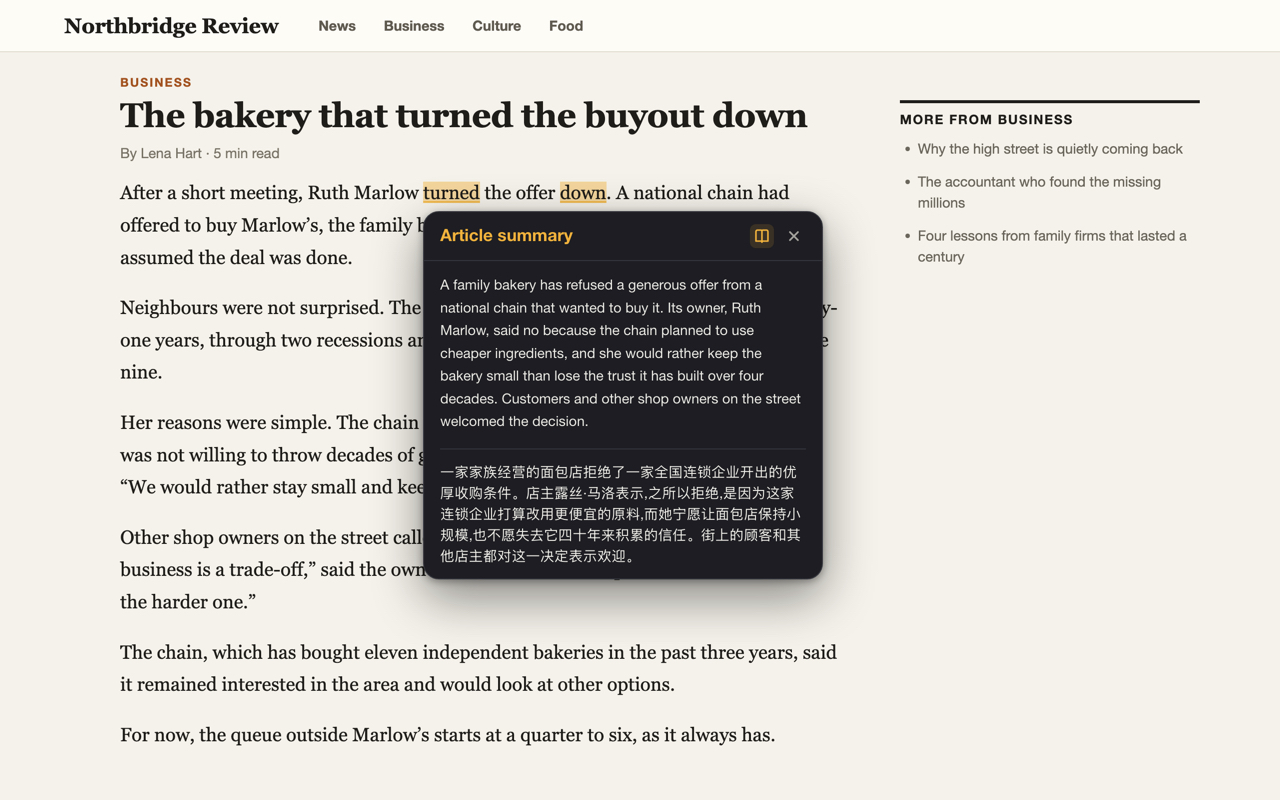
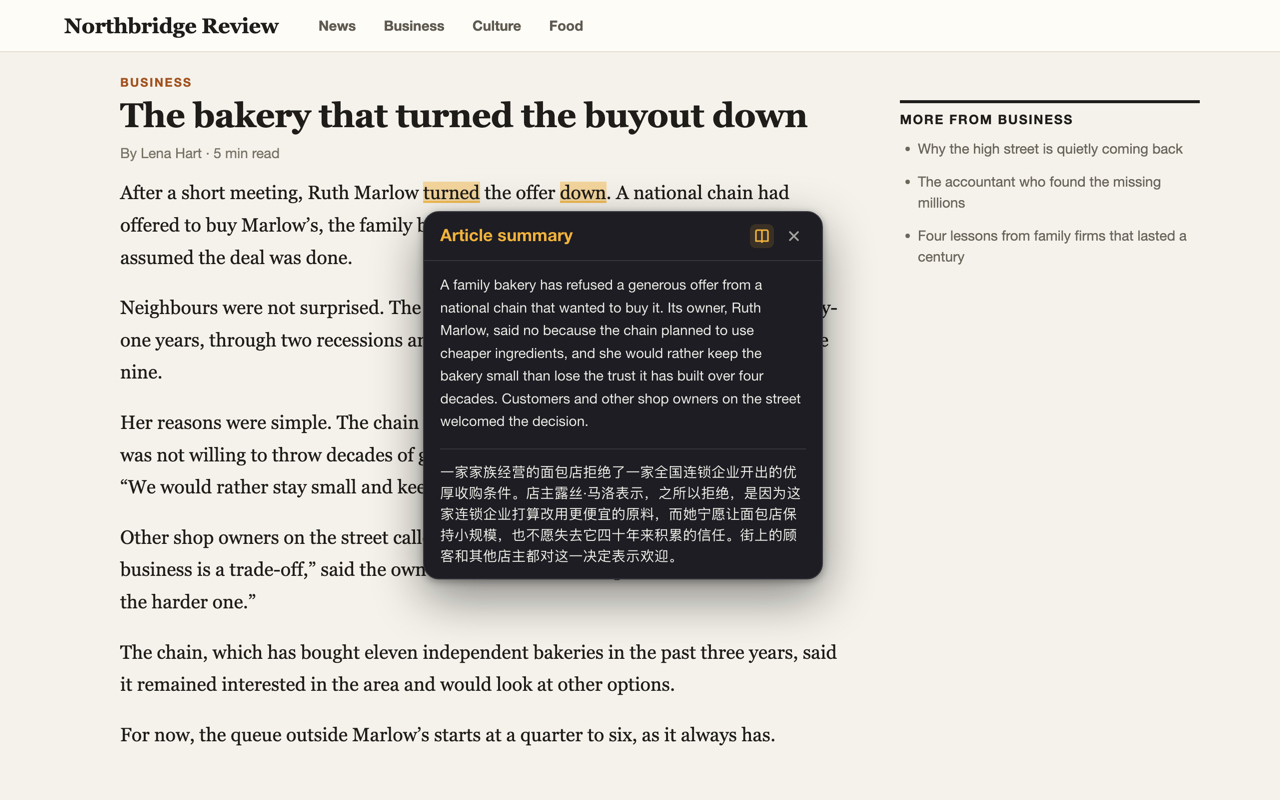
Apply the punctuation conversion to the saved Chinese answers, recapture the summary screenshot and record the fix

Changed region(s): [[0.3438, 0.5938, 0.625, 0.7188]]

diff --git a/playground/store/fixtures.ts b/playground/store/fixtures.ts
@@ -3,8 +3,8 @@
  * the pictures match what the extension would show there.
  *
  * The Spanish and Chinese text is not written by hand. It comes from the files in ./live, which hold
- * answers exactly as the model returned them at level B2. To refresh them, see store/README.md. The
- * Arabic text is written by hand.
+ * the model's answers at level B2 as the lookup code returns them, so the Chinese has full-width
+ * punctuation. To refresh them, see store/README.md. The Arabic text is written by hand.
  */
 import type { DictionaryCard, SavedItem, Segment, Summary, TranslationCard } from '@/lib/types';
 import esLive from './live/es-B2.json';

diff --git a/docs/PLAN.md b/docs/PLAN.md
@@ -41,6 +41,7 @@ src/lib/
   messaging.ts           typed protocol (@webext-core/messaging)
   text/tokens.ts         sentence/word segmentation, numbered passage, index checks
   text/words.ts          word counting, selection classification
+  text/punctuation.ts    full-width punctuation for Chinese translations
   dom/blocks.ts          block ancestor, text-block collection, paragraph widening (150–400 words)
   dom/flat.ts            flat text model of a block; DOM Range <-> offsets
   dom/selection.ts       reads the selection, builds a LookupRequest
@@ -146,7 +147,7 @@ Encoded verbatim from the brief in `prompts.ts` (meaning = general B1 definition
 notes default empty with the five allowed reasons, combinations only for strong partners, worked examples
 with empty lists). API schema has no enums/min/max; `validate.ts` enforces: translation fields present and, for a language with its own script, written in it (none for English only), 1–2
 examples, no cap on notes (the model decides, since 2026-10-18), ≤6 combinations, ≤4 other meanings, ≤3 key expressions (trim, not reject), indices
-unique, in range and overlapping the selection (reject → retry once with the reason appended).
+unique, in range and overlapping the selection (reject → retry once with the reason appended). For a language marked `fullWidthPunctuation` in `languages.ts` (the two kinds of Chinese), every accepted translation field has a half-width `, ; : ? ! ( )` next to a Chinese character turned into its full-width mark, with the spaces around it dropped; marks between digits or Latin letters stay.
 The prompts are built for a reader: dictionarySystem(reader) and translationSystem(reader) take the language and level, summarySystem(language) takes the language. The worked examples show the English fields only.
 After the examples, the dictionary and sentence prompts say that the translation fields are still required, written in the reader's language with the punctuation that language uses in print; the summary prompt asks for the same punctuation. Inside a prompt a language goes by its `promptName` from `languages.ts`, which is the English name except for the four entries whose list name has brackets ("Simplified Chinese", not "Chinese (Simplified)"). The settings list keeps the list name, and so do the CSV export and the evaluation report, through `languageName`.
 
@@ -198,7 +199,7 @@ samples to limit cost:
 | 6 to 8 | Purpose sentences, "most cards have none", a short list | Notes on 15 to 22 of 28 |
 | 9 | One Arabic field, grammar allowed, medium effort | Notes on all 9 of a note-prone sample, widened units |
 | 10 (shipped) | Notes opt-in with grammar as an allowed reason, two unit examples | Notes on 7 of 9 note-prone words and 1 of 6 everyday words, units right |
-| 13 | Language and level come from settings; worked examples show English fields only | Live checks on 12 selections and the summary of one article, in Arabic, Spanish, Simplified Chinese, Persian and English only at C1, and Spanish at B1: every answer was usable, translations came in the right language and script, English only had no translation fields, and B1 was simpler than C1. Arabic matched version 12 on the same sample, except that verbs came in the present form (يكتشف) where version 12 gave the past (اكتشف); the reader accepted that. Chinese came back with half-width commas and colons, so the prompts now ask for the language's own punctuation. Six more calls for the store screenshots, in Spanish and Simplified Chinese at B2 (the first live run at that level), were all usable on the first attempt and came back in simplified characters under the prompt name "Simplified Chinese". They also showed that the punctuation line is not enough: half-width commas, semicolons and brackets still appeared in the Chinese summary and translations. |
+| 13 | Language and level come from settings; worked examples show English fields only | Live checks on 12 selections and the summary of one article, in Arabic, Spanish, Simplified Chinese, Persian and English only at C1, and Spanish at B1: every answer was usable, translations came in the right language and script, English only had no translation fields, and B1 was simpler than C1. Arabic matched version 12 on the same sample, except that verbs came in the present form (يكتشف) where version 12 gave the past (اكتشف); the reader accepted that. Chinese came back with half-width commas and colons, so the prompts now ask for the language's own punctuation. Six more calls for the store screenshots, in Spanish and Simplified Chinese at B2 (the first live run at that level), were all usable on the first attempt and came back in simplified characters under the prompt name "Simplified Chinese". They also showed that the punctuation line is not enough: half-width commas, semicolons and brackets still appeared in the Chinese summary and translations. So `validate.ts` now converts them for the two kinds of Chinese (`toFullWidthPunctuation` in `src/lib/text/punctuation.ts`). Japanese has not been run live and is not converted. |
 
 Everything outside notes stays loose. Units and the Arabic field are guided by a sentence each.
 Experimental prompts and reports are kept in `scripts/eval/out` (git-ignored).

diff --git a/store/README.md b/store/README.md
@@ -33,7 +33,7 @@ bash scripts/store/capture.sh   # writes store/images (needs Google Chrome)
 ```
 
 The Arabic card text is written by hand. The Spanish and Chinese text is the model's own, saved in
-`playground/store/live/` as it came back. To refresh it (six model calls, billed to the key in `.env`):
+`playground/store/live/` as the lookup code returned it. To refresh it (six model calls, billed to the key in `.env`):
 
 ```bash
 pnpm eval --live --only store --language es --level B2 --pick turned,meticulous --no-summary
